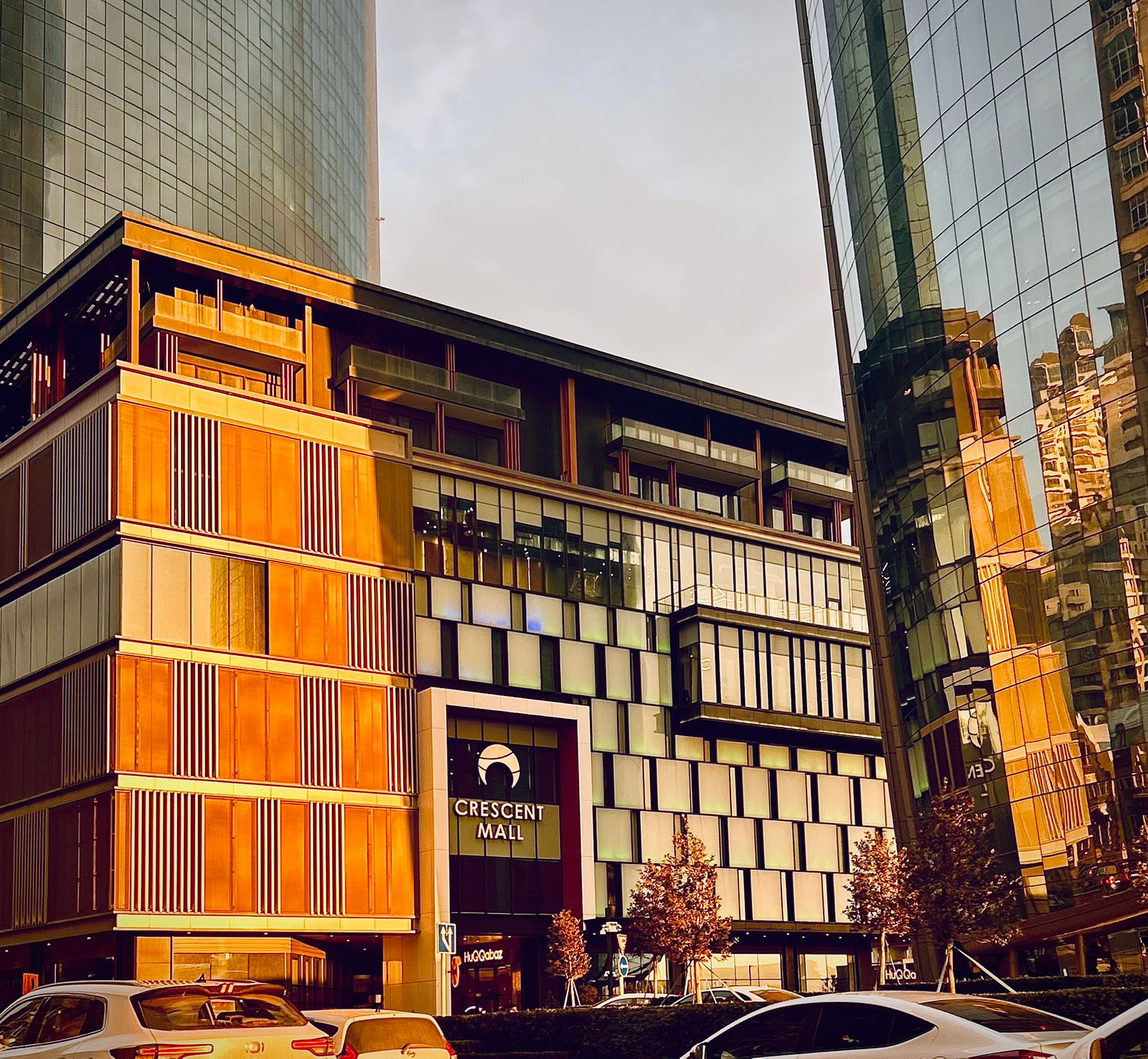
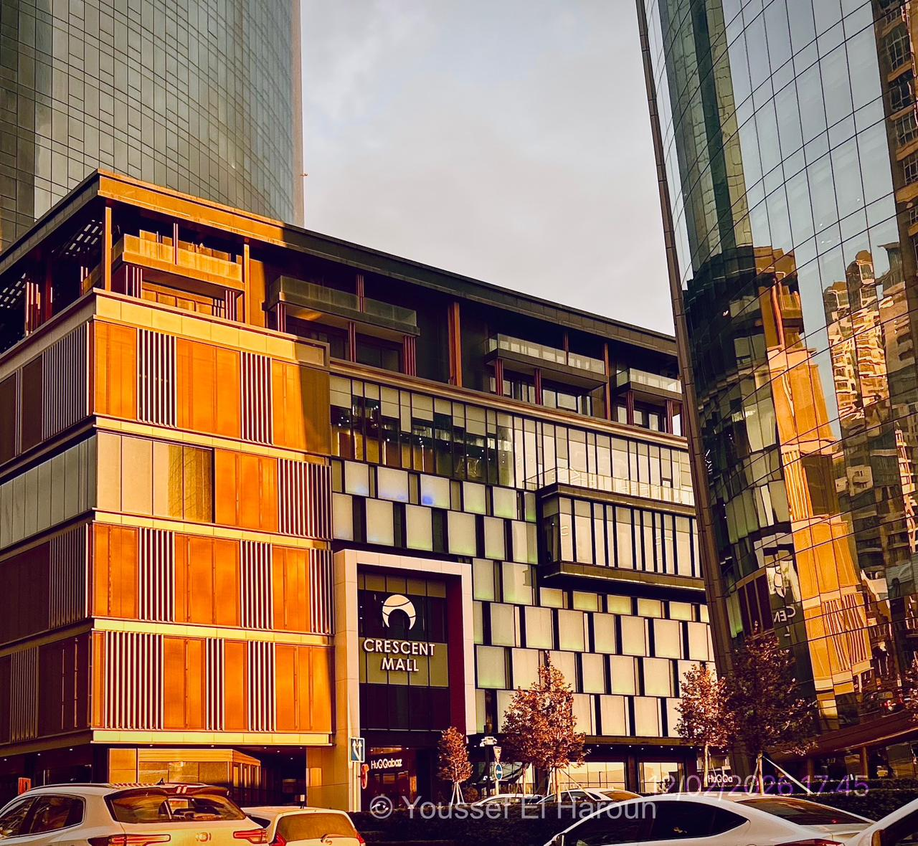
Add README and CHANGELOG Add watermarks to site images

diff --git a/Data/locations.js b/Data/locations.js
@@ -102,9 +102,9 @@ const locations = [
     desc: "Minimalist specialty coffee shop. Address: 576 Zahid Xəlilov Küçəsi, Bakı",
     link: "https://www.google.com/maps/place/Cuppa+Coffee+Elmler/@40.3829067,49.8110422,1012m/data=!3m1!1e3!4m6!3m5!1s0x40307d0103ffa7ef:0x835fe4a0e39ec1d5!8m2!3d40.3831835!4d49.8109306!16s%2Fg%2F11txfkds6b?entry=ttu",
     photos: [
-      "https://images.unsplash.com/photo-1511920170033-f8396924c348",
-      "https://images.unsplash.com/photo-1504754524776-8f4f37790ca0",
-      "https://images.unsplash.com/photo-1447933601403-0c6688de566e"
+      "/Images/Image12.jpeg",
+      "/Images/Image13.jpeg",
+      "/Images/Image10.jpeg"
     ],
     cat: "Food & Drinks",
     badge: "☕ Cafe"
@@ -116,8 +116,8 @@ const locations = [
     link: "https://www.google.com/maps/place/Tatte+Coffee+Elmler/@40.3829302,49.8109479,859m/data=!3m2!1e3!4b1!4m6!3m5!1s0x40307d7de29faa4f:0x42421d505527f6fd!8m2!3d40.3829302!4d49.8109479!16s%2Fg%2F11trrpyj7j?entry=ttu",
     photos: [
       "/Images/Image6.jpeg",
-      "https://lh3.googleusercontent.com/p/AF1QipNGeskEMwMupLFLbKHHykL0LdT_c8kotcv5mB4l=s680-w680-h510-rw",
-      "https://images.unsplash.com/photo-1509042239860-f550ce710b93"
+      "/Images/Image3.jpeg",
+      "/Images/Image11.jpeg"
     ],
     cat: "Food & Drinks",
     badge: "🍮 Desserts"

diff --git a/Main.css b/Main.css
@@ -18,7 +18,7 @@ body {
 }
 
 /* ==== NAVBAR ==== */
-/* ==== NAVBAR ==== */
+
 .navbar {
   position: fixed;
   top: 0;
@@ -109,8 +109,8 @@ body {
   flex-direction: column;
   cursor: pointer;
   z-index: 200;
-  top: 20px;     /* moves it down from the top */
-  right: 100px;   /* moves it away from the right edge */
+  top: 20px;     
+  right: 100px;   
   z-index: 20;
 }
 
@@ -265,7 +265,6 @@ body {
 }
 
 /* ==== CATEGORIES ==== */
-/* === Categories Section === */
 #categories {
   text-align: center;
   padding: 80px 20px;

diff --git a/style.css b/style.css
@@ -56,7 +56,7 @@ body{
 .nav-row{
   max-width: 1280px;
   margin: 0 auto;
-  padding: 16px 18px;
+  padding: 22px 24px;
   display: grid;
   grid-template-columns: auto 1fr auto;
   align-items: center;
@@ -711,6 +711,4 @@ body{
     grid-template-columns: 1.2fr 450px;
     border-radius: 20px;
   }
-
 }
-

diff --git a/index.html b/index.html
@@ -180,4 +180,4 @@
 
   <script src="main.js"></script>
 </body>
-</html>
+</html> 
